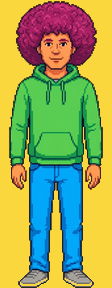
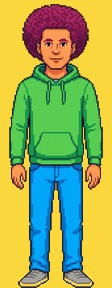
Brief 06 drop: Rick's back-head picks; afro front and side redone at his chosen size
Claude-Session: https://claude.ai/code/session_014bw7Voj6ZyqA75pqeRWNHh

Changed region(s): [[0.1339, 0.0, 0.8839, 0.25]]

diff --git a/art-drops/2026-11-15-hero-painted-set/HANDBACK.md b/art-drops/2026-11-15-hero-painted-set/HANDBACK.md
@@ -71,8 +71,8 @@ the last row is the approved body.
 | clean side | `HD_clean_side.png` | 16 | **70** |
 | long front | `HD_long_front.png` | 16 | **105** |
 | long side | `HD_long_side.png` | 16 | **128** |
-| fro front | `HD_fro_front.png` | 1 | **71** |
-| fro side | `HD_fro_side.png` | 5 | **74** |
+| fro front | `HD_fro_front.png` | 3 | **71** |
+| fro side | `HD_fro_side.png` | 4 | **78** |
 | mohawk front | `HD_mohawk_front.png` | 8 | **71** |
 | mohawk side | `HD_mohawk_side.png` | 15 | **70** |
 | glasses front | `HD_glasses_front.png` | 22 | **71** |
@@ -104,8 +104,8 @@ The styles were made from the chosen clean face, not from the bearded one.
 | clean face, side | 3 | t1 | **Rick: "concur."** The same jaw and nose line; t2 and t3 pushed the chin forward. |
 | long, front | 3 | t2 | Cleanest fall over the shoulders. |
 | long, side | 3 | t3 | Keeps the hood visible under the hair, so the body layer stays true. t1 was cut straight by the paste box. |
-| afro, front | 3 | t1 | Round and even, and matches the side's size. |
-| afro, side | 3 | t1 | Same size and texture as the front. |
+| afro, front | 3 + 2 | second round, t1 | **Redone at Rick's size** (see the back heads): 67 px wide at 112×288. |
+| afro, side | 3 + 2 | second round, t1 | **Redone at Rick's size**: 61 px wide. |
 | mohawk, front | 3 | t1 | The buzzed sides are a pale pink. Most of it sorts as skin (a shaved scalp), so it follows the player's skin colour. In t2 and t3 they are grey, which would stay grey for every player. |
 | mohawk, side | 3 | t1 | Same reason. |
 | glasses, front | 3 | t1 | Darkest, cleanest frame, the eyes clear. |
@@ -116,7 +116,7 @@ The styles were made from the chosen clean face, not from the bearded one.
 | pyjamas, sitting | 3 | t1 | No blanket line; t2 and t3 drew one. |
 | clothes heap | 3 | t3 | Clearest fold, sneakers beside the heap. |
 
-That is 47 images in all.
+That is 47 images in this first round.
 
 ## Known weak spots, for Rick and for the build
 
@@ -253,14 +253,14 @@ That is 9 more images, 56 in all.
 
 | File | Rows changed against `H_back` | Pick |
 |---|---|---|
-| `HD_long_back.png` | 17–144 | t2 of 3: the hood shows under the hair, as in the side pick |
-| `HD_fro_back.png` | 2–68 | t1 of 3: the same size as the front and side afro |
-| `HD_mohawk_back.png` | 11–81 | t1 of 3: the pale buzz, as on the front and side |
+| `HD_long_back.png` | 17–128 | **Rick: t1.** On t2 the hair ran through the hood ("a hallucination, hair can't go through a hoodie like that"). |
+| `HD_fro_back.png` | 4–64 | **Rick: t2,** "the best size overall". 66 px wide. The front and side were then redone to match. |
+| `HD_mohawk_back.png` | 11–81 | **Rick: t1,** "will do". |
 
 - **No back head is needed for clean, standard or glasses.** They use `H_back`'s own short hair.
 - **Glasses from behind:** the arms over the ears are too small to show.
 - **The beard doesn't show from behind**, so `H_back` serves both the bearded and the clean looks.
-- **Images:** 9 more for these heads, 65 for brief 06 in all.
+- **Images:** 9 more for these heads, then 4 to redo the front and side afro at the back's size. 69 for brief 06 in all.
 
 ### Prompts
 #### Back
@@ -293,3 +293,8 @@ Attached: `hero06/tries/back_t2.png` · aspect 9:16
 Edit this picture. It is a pixel-art game character seen from behind, painted in flat colour families on a flat yellow background. Change only his hair, as seen from behind: a mohawk: the sides and back of his head buzzed very short, in a pale tone of the same magenta, and a short, textured strip of hair running up the middle of the back of his head and over the top, standing up a few centimetres. Paint the hair in the same magenta colour family as his current hair (a few tones of magenta, light to shadow, nothing else), with the same soft dark outline and shading style. Keep everything else exactly the same: the same pose, the same size and position in the frame, the same ears and neck, the same hoodie and hood, jeans, shoes and flat yellow background, pixel for pixel. No face is visible. No text, no letters, no logos.
 ```
 Attached: `hero06/tries/back_t2.png` · aspect 9:16
+#### Afro, front and side, second round (at the back head's size)
+```
+Edit this picture. It is a pixel-art game character painted in flat colour families on a flat yellow background. Change only his hair: a full, round afro of tight curls, standing out evenly around his whole head, a compact afro, only a little larger than his head: it stands out about a third of a head's width beyond his head on each side and above, no bigger. The second image shows the same afro from behind, at exactly the size wanted; match its size and curl texture. Paint the hair in the same magenta colour family as his current hair (a few tones of magenta, light to shadow, nothing else), with the same soft dark outline and shading style. Keep everything else exactly the same: the same pose, the same size and position in the frame, the same face, eyes, nose, mouth, ears and neck, clean-shaven, the same hoodie, jeans, shoes and flat yellow background, pixel for pixel. No text, no letters, no logos.
+```
+Attached: the chosen clean face, then `hero06/tries/fro_back_t2.png` · aspect 9:16 (the side used the same words)
